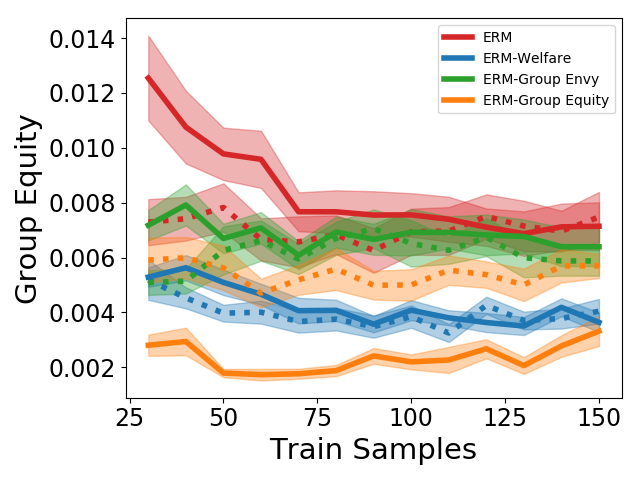
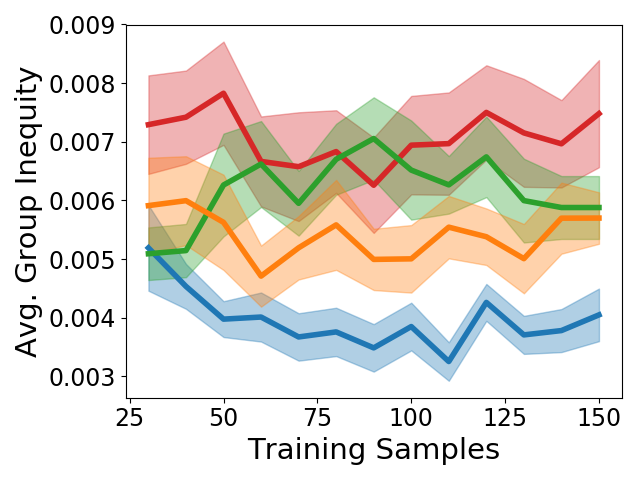
adding plots

diff --git a/main.py b/main.py
@@ -34,8 +34,11 @@ def run_simulation(tup):
             train_X = normalize(train_X, axis=1, norm='l1')    
             test_X = normalize(test_X, axis=1, norm='l1')    
         
+        start_time = time.time()
         beta_values, learned_predictions, learned_pred_group, opt_alphas =\
-                func(train_X, L_mat, U_mat, train_s_by_group, lamb=lambda_val) 
+                func(train_X, L_mat, U_mat, train_s_by_group, lamb=lambda_val)
+        end_time = time.time()
+        total_time = end_time - start_time
         if beta_values == 0:
             print("EXCEPTION WAS RAISED")
         i += 1
@@ -50,7 +53,7 @@ def run_simulation(tup):
     tr_avg_envy, tr_in_envy_violations = total_average_envy(opt_alphas, U_mat, train_X, \
             learned_predictions)
     train_data = (tr_total_loss, tr_total_welfare, tr_total_envy, tr_envy_violations, \
-            tr_total_equi, tr_equi_violations, tr_avg_envy, tr_in_envy_violations)
+            tr_total_equi, tr_equi_violations, tr_avg_envy, tr_in_envy_violations, total_time)
     
     # Get all the data for test data
     st_learned_predictions, st_learned_pred_group = \
@@ -80,7 +83,7 @@ def sweep_ns_parameters_parallel(ns_vals, func, lambda_val, group_dist, L_mats, 
     """
     import concurrent.futures 
     
-    filename = "sweep_n_5s"+func.__name__+".csv"
+    filename = "sweep_n_"+func.__name__+".csv"
     print("Params: lambda=", lambda_val, "num_sim=", num_sims) 
     print("Saving results to", filename)
     
@@ -105,6 +108,7 @@ def sweep_ns_parameters_parallel(ns_vals, func, lambda_val, group_dist, L_mats, 
             np.ones(num_vals), np.ones(num_vals), np.ones(num_vals), np.ones(num_vals)
     train_in_envy_vio, test_in_envy_vio, train_in_envy_vio_var, test_in_envy_vio_var = \
             np.ones(num_vals), np.ones(num_vals), np.ones(num_vals), np.ones(num_vals)
+    train_time, train_time_var = np.ones(num_vals), np.ones(num_vals)
     
     for index, ns_ in enumerate(ns_vals):
         ns_ = int(ns_)
@@ -119,6 +123,7 @@ def sweep_ns_parameters_parallel(ns_vals, func, lambda_val, group_dist, L_mats, 
         c_train_equi_vio, c_test_equi_vio = np.ones(num_sims), np.ones(num_sims)
         c_train_in_envy, c_test_in_envy = np.ones(num_sims), np.ones(num_sims)
         c_train_in_envy_vio, c_test_in_envy_vio = np.ones(num_sims), np.ones(num_sims)
+        c_train_time = np.ones(num_sims)
 
         inputs = []
         for sim in range(num_sims):
@@ -144,7 +149,7 @@ def sweep_ns_parameters_parallel(ns_vals, func, lambda_val, group_dist, L_mats, 
                     c_test_equi[sim], c_test_equi_vio[sim], c_test_in_envy[sim], c_test_in_envy_vio[sim] = -1, -1, -1, -1, -1, -1, -1, -1
             else:
                 c_train_losses[sim], c_train_welfare[sim], c_train_envy[sim], c_train_envy_vio[sim], \
-                    c_train_equi[sim], c_train_equi_vio[sim], c_train_in_envy[sim], c_train_in_envy_vio[sim] = train_data
+                    c_train_equi[sim], c_train_equi_vio[sim], c_train_in_envy[sim], c_train_in_envy_vio[sim], c_train_time[sim] = train_data
                 c_test_losses[sim], c_test_welfare[sim], c_test_envy[sim], c_test_envy_vio[sim], \
                     c_test_equi[sim], c_test_equi_vio[sim], c_test_in_envy[sim], c_test_in_envy_vio[sim] = test_data
             
@@ -167,6 +172,7 @@ def sweep_ns_parameters_parallel(ns_vals, func, lambda_val, group_dist, L_mats, 
         np.delete(c_test_in_envy, np.where(c_test_in_envy==-1))
         np.delete(c_train_in_envy_vio, np.where(c_train_in_envy_vio==-1))
         np.delete(c_test_in_envy_vio, np.where(c_test_in_envy_vio==-1))
+        np.delete(c_train_time, np.where(c_train_time==-1))
 
         train_losses[index], train_losses_var[index] = np.mean(c_train_losses), np.sqrt(np.var(c_train_losses))
         test_losses[index], test_losses_var[index] = np.mean(c_test_losses), np.sqrt(np.var(c_test_losses))
@@ -192,6 +198,8 @@ def sweep_ns_parameters_parallel(ns_vals, func, lambda_val, group_dist, L_mats, 
         train_in_envy_vio[index], train_in_envy_vio_var[index] = np.mean(c_train_in_envy_vio), np.sqrt(np.var(c_train_in_envy_vio))
         test_in_envy_vio[index], test_in_envy_vio_var[index] = np.mean(c_test_in_envy_vio), np.sqrt(np.var(c_test_in_envy_vio))
         
+        train_time[index], train_time_var[index] = np.mean(c_train_time), np.sqrt(np.var(c_train_time))
+        
         #print("Envy train and test: ", train_envy[index], test_envy[index])
         #print("Envy vio train and test: ", train_envy_vio[index], test_envy_vio[index])
 
@@ -210,7 +218,8 @@ def sweep_ns_parameters_parallel(ns_vals, func, lambda_val, group_dist, L_mats, 
                            [str(train_in_envy[index])] + [str(train_in_envy_var[index])] +\
                            [str(test_in_envy[index])] +  [str(test_in_envy_var[index])] + \
                            [str(train_in_envy_vio[index])] + [str(train_in_envy_vio_var[index])] +\
-                           [str(test_in_envy_vio[index])] +  [str(test_in_envy_vio_var[index])]
+                           [str(test_in_envy_vio[index])] +  [str(test_in_envy_vio_var[index])] +\
+                           [str(train_time[index])] +  [str(train_time_var[index])]
 
         csv_writer.writerow(row)
         csv_file.flush()
@@ -252,6 +261,7 @@ def sweep_g_parameters_parallel(g_vals, func, lambda_val, L_mats, U_mats):
             np.ones(num_vals), np.ones(num_vals), np.ones(num_vals), np.ones(num_vals)
     train_in_envy_vio, test_in_envy_vio, train_in_envy_vio_var, test_in_envy_vio_var = \
             np.ones(num_vals), np.ones(num_vals), np.ones(num_vals), np.ones(num_vals)
+    train_time, train_time_var = np.ones(num_vals), np.ones(num_vals)
     
     for index, g_ in enumerate(g_vals):
         g_ = int(g_)
@@ -267,6 +277,7 @@ def sweep_g_parameters_parallel(g_vals, func, lambda_val, L_mats, U_mats):
         c_train_equi_vio, c_test_equi_vio = np.ones(num_sims), np.ones(num_sims)
         c_train_in_envy, c_test_in_envy = np.ones(num_sims), np.ones(num_sims)
         c_train_in_envy_vio, c_test_in_envy_vio = np.ones(num_sims), np.ones(num_sims)
+        c_train_time = np.ones(num_sims)
 
         inputs = []
         for sim in range(num_sims):
@@ -292,7 +303,7 @@ def sweep_g_parameters_parallel(g_vals, func, lambda_val, L_mats, U_mats):
                     c_test_equi[sim], c_test_equi_vio[sim], c_test_in_envy[sim], c_test_in_envy_vio[sim] = -1, -1, -1, -1, -1, -1, -1, -1
             else:
                 c_train_losses[sim], c_train_welfare[sim], c_train_envy[sim], c_train_envy_vio[sim], \
-                    c_train_equi[sim], c_train_equi_vio[sim], c_train_in_envy[sim], c_train_in_envy_vio[sim] = train_data
+                    c_train_equi[sim], c_train_equi_vio[sim], c_train_in_envy[sim], c_train_in_envy_vio[sim], c_train_time[sim] = train_data
                 c_test_losses[sim], c_test_welfare[sim], c_test_envy[sim], c_test_envy_vio[sim], \
                     c_test_equi[sim], c_test_equi_vio[sim], c_test_in_envy[sim], c_test_in_envy_vio[sim] = test_data
 
@@ -310,6 +321,7 @@ def sweep_g_parameters_parallel(g_vals, func, lambda_val, L_mats, U_mats):
         np.delete(c_test_equi_vio, np.where(c_test_equi_vio==-1))
         np.delete(c_train_in_envy_vio, np.where(c_train_in_envy_vio==-1))
         np.delete(c_test_in_envy_vio, np.where(c_test_in_envy_vio==-1))
+        np.delete(c_train_time, np.where(c_train_time==-1))
 
         train_losses[index], train_losses_var[index] = np.mean(c_train_losses), np.sqrt(np.var(c_train_losses))
         test_losses[index], test_losses_var[index] = np.mean(c_test_losses), np.sqrt(np.var(c_test_losses))
@@ -335,6 +347,8 @@ def sweep_g_parameters_parallel(g_vals, func, lambda_val, L_mats, U_mats):
         train_in_envy_vio[index], train_in_envy_vio_var[index] = np.mean(c_train_in_envy_vio), np.sqrt(np.var(c_train_in_envy_vio))
         test_in_envy_vio[index], test_in_envy_vio_var[index] = np.mean(c_test_in_envy_vio), np.sqrt(np.var(c_test_in_envy_vio))
        
+        train_time[index], train_time_var[index] = np.mean(c_train_time), np.sqrt(np.var(c_train_time))
+        
         #print("Envy train and test: ", train_envy[index], test_envy[index])
         #print("Envy vio train and test: ", train_envy_vio[index], test_envy_vio[index])
 
@@ -351,7 +365,8 @@ def sweep_g_parameters_parallel(g_vals, func, lambda_val, L_mats, U_mats):
                            [str(train_equi_vio[index])] +  [str(train_equi_vio_var[index])] + \
                            [str(test_equi_vio[index])] +  [str(test_equi_vio_var[index])] +\
                            [str(train_in_envy_vio[index])] + [str(train_in_envy_vio_var[index])] +\
-                           [str(test_in_envy_vio[index])] +  [str(test_in_envy_vio_var[index])]
+                           [str(test_in_envy_vio[index])] +  [str(test_in_envy_vio_var[index])] +\
+                           [str(train_time[index])] +  [str(train_time_var[index])]
 
         csv_writer.writerow(row)
         csv_file.flush()
@@ -528,28 +543,28 @@ def run_envy_experiment(L_mats, typ):
         envy_experiment(train_erm, 10, L_mats, U_mat_dict)
     
 def ns_experiment(L_mats, U_mats):
-    ns_vals = [35,45,55,65,75,85,95]
+    ns_vals = [30,35,40,45,50,55,60,65,70,75,80]
     group_dist = [0.25, 0.25, 0.25, 0.25]
     
-    start = time.time()
-    sweep_ns_parameters_parallel(ns_vals, train_erm, 0, group_dist, L_mats, U_mats)
-    end = time.time()
-    print("ERM experiment took:", end-start)
+    #start = time.time()
+    #sweep_ns_parameters_parallel(ns_vals, train_erm, 0, group_dist, L_mats, U_mats)
+    #end = time.time()
+    #print("ERM experiment took:", end-start)
     
     #start = time.time()
     #sweep_ns_parameters_parallel(ns_vals, train_erm_welfare, 10, group_dist, L_mats, U_mats)
     #end = time.time()
     #print("ERM welfare took: ", end-start)
     
-    #start = time.time()
-    #sweep_ns_parameters_parallel(ns_vals, train_erm_equi, 10, group_dist, L_mats, U_mats)
-    #end = time.time()
-    #print("ERM equi took: ", end-start)
+    start = time.time()
+    sweep_ns_parameters_parallel(ns_vals, train_erm_equi, 10, group_dist, L_mats, U_mats)
+    end = time.time()
+    print("ERM equi took: ", end-start)
     
-    #start = time.time()
-    #sweep_ns_parameters_parallel(ns_vals, train_erm_gef, 10, group_dist, L_mats, U_mats)
-    #end = time.time()
-    #print("ERM envy free took: ", end-start)
+    start = time.time()
+    sweep_ns_parameters_parallel(ns_vals, train_erm_gef, 10, group_dist, L_mats, U_mats)
+    end = time.time()
+    print("ERM envy free took: ", end-start)
     
     #start = time.time()
     #sweep_ns_parameters_parallel(ns_vals, train_erm_envy_free, 10, group_dist, L_mats, U_mats)

diff --git a/plot_from_csv.py b/plot_from_csv.py
@@ -48,18 +48,18 @@ def plot(labels, data, plot_var=False):
     ax1.set_ylabel(fairness_label, fontsize=21)
         
     #labels = ["ERM", "ERM-Welfare", "ERM-Group Envy", "ERM-Group Equity"]
-    labels = ["ERM", "ERM-Group Envy Free", "ERM-In Envy Free"]
+    #labels = ["ERM", "ERM-Group Envy Free", "ERM-In Envy Free"]
     for i in range(num_files):
-        ax1.plot(f_x_vals[i], f_train[i], color=colors[i], linewidth=4, label=labels[i])
-        #ax1.plot(f_x_vals[i], f_test[i], color=colors[i], linestyle=":", linewidth=4)
+        #ax1.plot(f_x_vals[i], f_train[i], color=colors[i], linewidth=4, label=labels[i])
+        ax1.plot(f_x_vals[i], f_test[i], color=colors[i], linewidth=4)
         if plot_var:
-            ax1.fill_between(f_x_vals[i], f_train[i]-f_train_var[i], f_train[i]+f_train_var[i], color=colors[i], alpha=0.35)
-            #ax1.fill_between(f_x_vals[i], f_test[i]-f_test_var[i], f_test[i]+f_test_var[i], color=colors[i], alpha=0.35)
+            #ax1.fill_between(f_x_vals[i], f_train[i]-f_train_var[i], f_train[i]+f_train_var[i], color=colors[i], alpha=0.35)
+            ax1.fill_between(f_x_vals[i], f_test[i]-f_test_var[i], f_test[i]+f_test_var[i], color=colors[i], alpha=0.35)
 
     ax1.tick_params(axis='x', labelsize=17)
     ax1.tick_params(axis='y', labelsize=17)
-    
-    plt.legend()
+    plt.xticks([25,50,75,100,125,150]) 
+    #plt.legend()
     plt.grid(False)
     plt.tight_layout()
     plt.savefig(plt_name)
@@ -69,8 +69,8 @@ if __name__ == "__main__":
         Pass in files in this order: erm, erm_welfare, erm_envy, erm_equity
     """
     
-    metrics_dict = {'Loss':[1,2,3,4], 'Welfare':[5,6,7,8], 'Group Envy':[9,10,11,12], \
-            'Group Envy Vio':[13,14,15,16], 'Group Equity':[17,18,19,20], 'Individual Envy':[25,26,27,28], 'Individual Envy Vio':[29,30,31,32]}
+    metrics_dict = {'Loss':[1,2,3,4], 'Welfare':[5,6,7,8], 'Avg. Group Envy':[9,10,11,12], \
+            'Group Envy Vio':[13,14,15,16], 'Avg. Group Inequity':[17,18,19,20], 'Avg. Envy':[25,26,27,28], 'Individual Envy Vio':[29,30,31,32]}
     inp_files = [sys.argv[1], sys.argv[2], sys.argv[3], sys.argv[4]]
     files = []
     for inp_file in inp_files:
